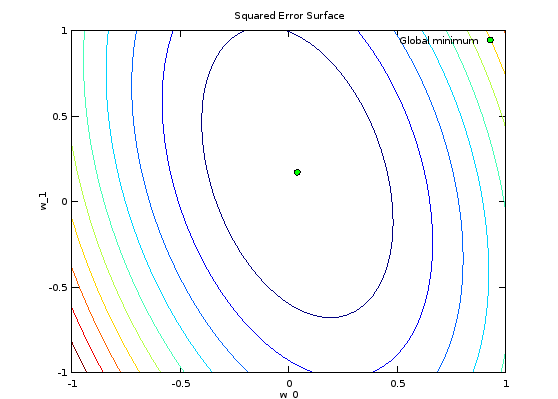
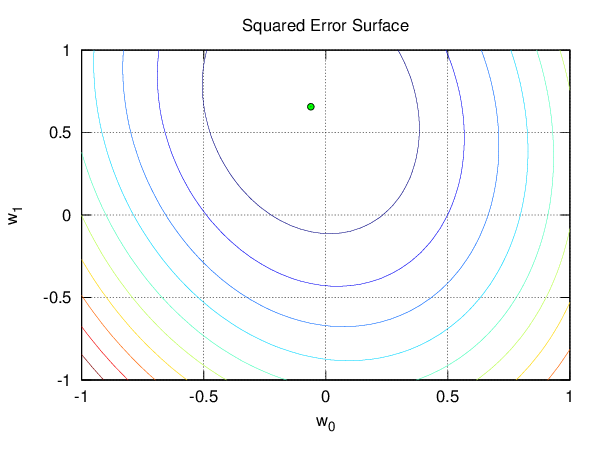
Greatly improved the quality of the plots.

diff --git a/week-02/src/plot_lr.m b/week-02/src/plot_lr.m
@@ -33,20 +33,25 @@ printf ("Values of w that minimizes the error: [%.2f %.2f]\n", wlin);
 printf ("In-sample squared error measure: %.2f\n", ein (wlin));
 
 % Plots the line represented by wlin with the data points
-figure (1);
+h1 = figure (1);
 hold on;
 
 title ("Linear Regression Demo");
-xlabel ("x values");
-ylabel ("y values");
+xlabel ("x");
+ylabel ("y");
 
-plot (X, y, "ko", "MarkerFaceColor", "b");
+plot (X, y, "ko", "MarkerSize", 3, "MarkerFaceColor", "b");
 fplot (@ (x) wf (x, wlin), [-1, 1], "r-");
-legend ("Data", "Regression line");
+legend ("hide");
+
+% Uncomment the following line in order to save the plot to a PNG file
+% saveplot (h1, 4, 3, "../img/plot_lr_01.png")
 
 % Plots the error surface and a point representing the global minimum
-figure (2);
+h2 = figure (2);
 hold on;
+
+grid on;
 
 title ("Squared Error Surface");
 xlabel ("w_0");
@@ -55,6 +60,9 @@ ylabel ("w_1");
 p = linspace (-1, 1, 50);
 [w0, w1] = meshgrid (p, p);
 
-plot (wlin(1), wlin(2), "ko", "MarkerFaceColor", "g");
+plot (wlin(1), wlin(2), "ko", "MarkerSize", 3, "MarkerFaceColor", "g");
 contour (w0, w1, arrayfun (@ (w0, w1) ein ([w0; w1]), w0, w1));
-legend ("Global minimum");
+legend ("hide");
+
+% Uncomment the following line in order to save the plot to a PNG file
+% saveplot (h2, 4, 3, "../img/plot_lr_02.png")

diff --git a/week-02/src/plot_lr_pla.m b/week-02/src/plot_lr_pla.m
@@ -11,6 +11,7 @@ d = 2;
 % Number of examples. Change this according to the question
 N = 100;
 
+h = figure (1);
 hold on;
 
 title ("PLA w/ Linear Regression");
@@ -52,11 +53,11 @@ end
 limits = cat (2, spc, spc);
 
 % Plots the equation created from the two points
-plotboundary (wf, limits, "r-");
+plotboundary (wf, limits, "m-");
 
 % Plots the examples
-plot (X(pos,2), X(pos,3), "b+", "MarkerSize", 8);
-plot (X(neg,2), X(neg,3), "ko", "MarkerFaceColor", "y", "MarkerSize", 8);
+plot (X(pos,2), X(pos,3), "ko", "MarkerSize", 3, "MarkerFaceColor", "r");
+plot (X(neg,2), X(neg,3), "ko", "MarkerSize", 3, "MarkerFaceColor", "b");
 
 % Maximum number of PLA iterations
 maxiter = 10000;
@@ -65,12 +66,14 @@ maxiter = 10000;
 w = linearreg (X, y);
 
 % Plots the decision boundary based on the weight vector
-plotboundary (w, limits, "m-x");
+plotboundary (w, limits, "y-");
 
 % Tune the weight vector w with the perceptron learning algorithm
 w = pla (X, y, w,  maxiter, 0);
 
 % Plots the final decision boundary
 plotboundary (w, limits, "g");
+legend ("hide");
 
-legend ("Target function", "Positive example", "Negative example", "Regression boundary", "PLA boundary");
+% Uncomment the following line in order to save the plot to a PNG file
+% saveplot (h, 4, 3, "../img/plot_lr_pla.png")

diff --git a/week-01/src/plot_pla.m b/week-01/src/plot_pla.m
@@ -11,11 +11,12 @@ d = 2;
 % Number of examples, change this according to the question
 N = 100;
 
+h = figure (1);
 hold on;
 
 title (sprintf ("Perceptron Learning Algorithm (PLA) for N=%d", N));
-xlabel ("x values");
-ylabel ("y values");
+xlabel ("x_1");
+ylabel ("x_2");
 
 % X/Y range where the examples will be plotted
 spc = [-1 1];
@@ -44,11 +45,11 @@ while (1)
 end
 
 % Plots the equation created from the two points
-fplot (f, cat(2, spc, spc), "r-");
+fplot (f, cat(2, spc, spc), "m-");
 
 % Plots the examples
-plot (X(pos,1), X(pos,2), "b+", "MarkerSize", 8);
-plot (X(neg,1), X(neg,2), "ko", "MarkerFaceColor", "y", "MarkerSize", 8);
+plot (X(pos,1), X(pos,2), "ko", "MarkerSize", 3, "MarkerFaceColor", "b");
+plot (X(neg,1), X(neg,2), "ko", "MarkerSize", 3, "MarkerFaceColor", "r");
 
 % Introduce the synthetic dimension x0
 X = [ones(N, 1) X];
@@ -64,5 +65,7 @@ w = pla (X, y, w, maxiter, 0);
 
 % Plots the decision boundary based on the weight vector
 plotboundary (w, spc, "g-");
+legend ("hide");
 
-legend ("Target function", "Positive example", "Negative example", "PLA boundary");
+% Uncomment the following line in order to save the plot to a PNG file
+saveplot (h, 4, 3, "../img/plot_pla.png")

diff --git a/week-02/src/plot_lr_nonlinear.m b/week-02/src/plot_lr_nonlinear.m
@@ -38,15 +38,15 @@ w = linearreg (X, y);
 % Labels assigned by w for each X
 hy = sign (X * w);
 
-figure (1);
+h = figure (1);
 hold on;
 
 title ("Nonlinear Hypothesis Demo");
 xlabel ("x_1");
 ylabel ("x_2");
 
-plot (X(pos,2), X(pos,3), "b+", "MarkerSize", 8);
-plot (X(neg,2), X(neg,3), "ko", "MarkerFaceColor", "y", "MarkerSize", 8);
+plot (X(pos,2), X(pos,3), "ko", "MarkerSize", 3, "MarkerFaceColor", "r");
+plot (X(neg,2), X(neg,3), "ko", "MarkerSize", 3, "MarkerFaceColor", "b");
 
 p = linspace (spc(1), spc(2), 100);
 [x1, x2] = meshgrid (p, p);
@@ -56,4 +56,9 @@ hf = @ (x1, x2) sign (addfeatures ([1 x1 x2]) * w);
 contour (x1, x2, arrayfun (hf, x1, x2), "g-");
 
 % Target function
-contour (x1, x2, arrayfun (@target, x1, x2), "r-");
+contour (x1, x2, arrayfun (@target, x1, x2), "m-");
+
+legend ("hide");
+
+% Uncomment the following line in order to save the plot to a PNG file
+% saveplot (h, 4, 3, "../img/plot_lr_nonlinear.png")

diff --git a/week-01/src/common/saveplot.m b/week-01/src/common/saveplot.m
@@ -1,0 +1,14 @@
+function saveplot (h, width, height, filename)
+  set (h, "PaperUnits", "inches");
+  set (h, "PaperOrientation", "portrait");
+  set (h, "PaperSize", [height width]);
+  set (h, "PaperPosition", [0 0 width height]);
+
+  FN = findall (h, "-property", "FontName");
+  set (FN, "FontName", "Helvetica");
+
+  FS = findall (h, "-property", "FontSize");
+  set(FS, "FontSize", 8);
+
+  print (h, filename, "-dpng");
+end

diff --git a/week-02/src/common/saveplot.m b/week-02/src/common/saveplot.m
@@ -1,0 +1,14 @@
+function saveplot (h, width, height, filename)
+  set (h, "PaperUnits", "inches");
+  set (h, "PaperOrientation", "portrait");
+  set (h, "PaperSize", [height width]);
+  set (h, "PaperPosition", [0 0 width height]);
+
+  FN = findall (h, "-property", "FontName");
+  set (FN, "FontName", "Helvetica");
+
+  FS = findall (h, "-property", "FontSize");
+  set(FS, "FontSize", 8);
+
+  print (h, filename, "-dpng");
+end

diff --git a/week-02/README.md b/week-02/README.md
@@ -8,9 +8,9 @@ linear regression with nonlinear transformations.
 ### Linear Regression
 
 To make sure my implementation of linear regression worked, I did a scatter
-plot with ![N=10][n10] uniformly distributed ![between -1 and 1][interval]
-along with the regression line, and a contour plot with the squared error
-surface with a point marking the optimal ![w][w].
+plot with ![N=10][n10] points uniformly distributed in
+![between -1 and 1][interval] along with the regression line, and a contour
+plot with the squared error surface with a point marking the optimal ![w][w].
 
 ![linear regression line](img/plot_lr_01.png)
 
@@ -18,9 +18,9 @@ surface with a point marking the optimal ![w][w].
 
 ### Linear Regression + Perceptron Learning Algorithm (PLA)
 
-This plot shows the difference between the target function ![f][f], the ![w][w]
-found via linear regression, and the ![wd][wd] found via PLA using ![w][w] as
-the initial weights.
+This plot shows the difference between the target function ![f][f] in magenta,
+the ![w][w] found via linear regression in yellow, and the ![wd][wd] found via
+PLA in green (it uses ![w][w] as the initial weights).
 
 ![linear regression pla](img/plot_lr_pla.png)
 

diff --git a/week-01/README.md b/week-01/README.md
@@ -8,11 +8,12 @@ There's also code to answer a few other questions about probability.
 ## Plots
 
 This is a sample plot that shows the difference between the target function
-![f][f] and the hypothesis ![g][g] found via PLA on 100 random points uniformly
-distributed in ![between -1 and 1][interval]
+![f][f] in magenta and the hypothesis ![g][g] in green found via PLA on
+![N=100][n100] points uniformly distributed in ![between -1 and 1][interval].
 
 ![PLA](img/plot_pla.png)
 
 [f]: http://latex.codecogs.com/gif.latex?f
 [g]: http://latex.codecogs.com/gif.latex?g
+[n100]: http://latex.codecogs.com/gif.latex?N%3D100
 [interval]: http://latex.codecogs.com/gif.latex?%5B-1%2C1%5D%5Ctimes%5B-1%2C1%5D
